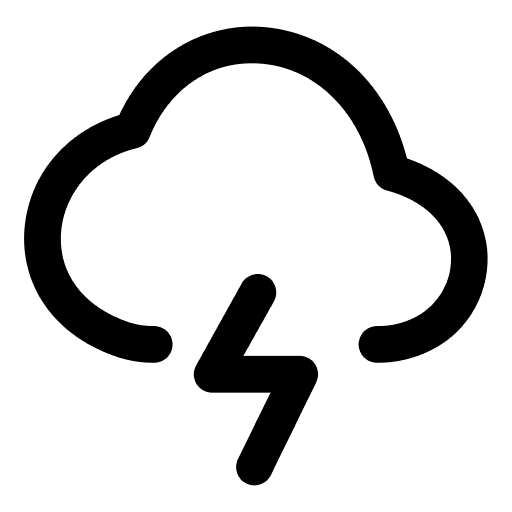
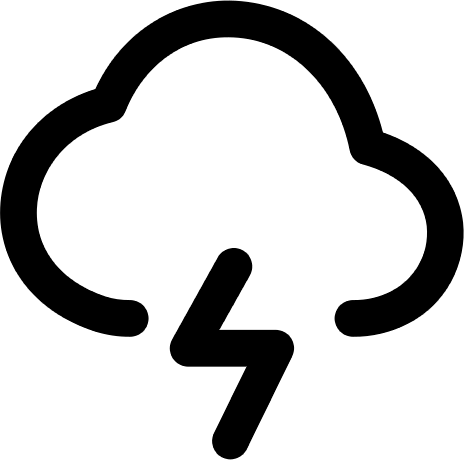
more-ui-update

diff --git a/src/app/financial-workflow/emergencies/emergencies.component.html b/src/app/financial-workflow/emergencies/emergencies.component.html
@@ -27,7 +27,7 @@
             <div class="col-2">
               <div class="d-flex flex-column gap-8">
                 <div class="d-flex align-items-center gap-8">
-                  <h3 class="card-title expense-income">Total coverage</h3>
+                  <h3 class="card-title expense-income">  <img src="/assets/images/svgs/shield.svg" alt="chart" />    Total coverage</h3>
                 </div>
                 <h3 class="saving-title">
                   <span>{{clientData?.preferredCurrency | currencySymbol}}</span>{{s.emergenciesStats?.totalCoverage | number:'1.0-0'}}
@@ -40,7 +40,7 @@
             <div class="col-2">
               <div class="d-flex flex-column gap-8">
                 <div class="d-flex align-items-center gap-8">
-                  <h3 class="card-title expenses-deduct">Total annual cost</h3>
+                  <h3 class="card-title expenses-deduct"><img src="/assets/images/svgs/will.svg" alt="chart" /> Total annual cost</h3>
                 </div>
                 <h3 class="saving-title"> <span>{{clientData?.preferredCurrency | currencySymbol}}</span>{{s.emergenciesStats?.totalCost | number:'1.0-0'}}
                 </h3>
@@ -52,7 +52,7 @@
             <div class="col-2">
               <div class="d-flex flex-column gap-8">
                 <div class="d-flex align-items-center gap-8">
-                  <h3 class="card-title expenses-total">Protection score</h3>
+                  <h3 class="card-title expenses-total"><img width="24" src="/assets/images/svgs/gauge.png" alt="chart" /> Protection score</h3>
                 </div>
                 <h3 class="saving-title saving-below-number"> {{s.emergenciesStats?.protectionScore}}/100</h3>
               </div>

diff --git a/src/app/financial-workflow/emergencies/emergencies.component.ts b/src/app/financial-workflow/emergencies/emergencies.component.ts
@@ -232,7 +232,7 @@ export class EmergenciesComponent implements OnInit {
     disability: 'disability.svg',
     health: 'health.svg',
     will: 'will.svg',
-    life: 'shield.svg'
+    life: 'user.png'
   };
 
   private readonly defaultIcon = 'light.png';

diff --git a/src/app/financial-workflow/emergencies/emergencies.component.scss b/src/app/financial-workflow/emergencies/emergencies.component.scss
@@ -161,6 +161,10 @@
     font-size: 18px;
     line-height: 19px;
     font-weight: 700;
+    white-space: nowrap;
+        display: flex;
+    align-items: center;
+    gap: 5px;
     // &.expense-income{
     //       color: #71bc42;
     // }
